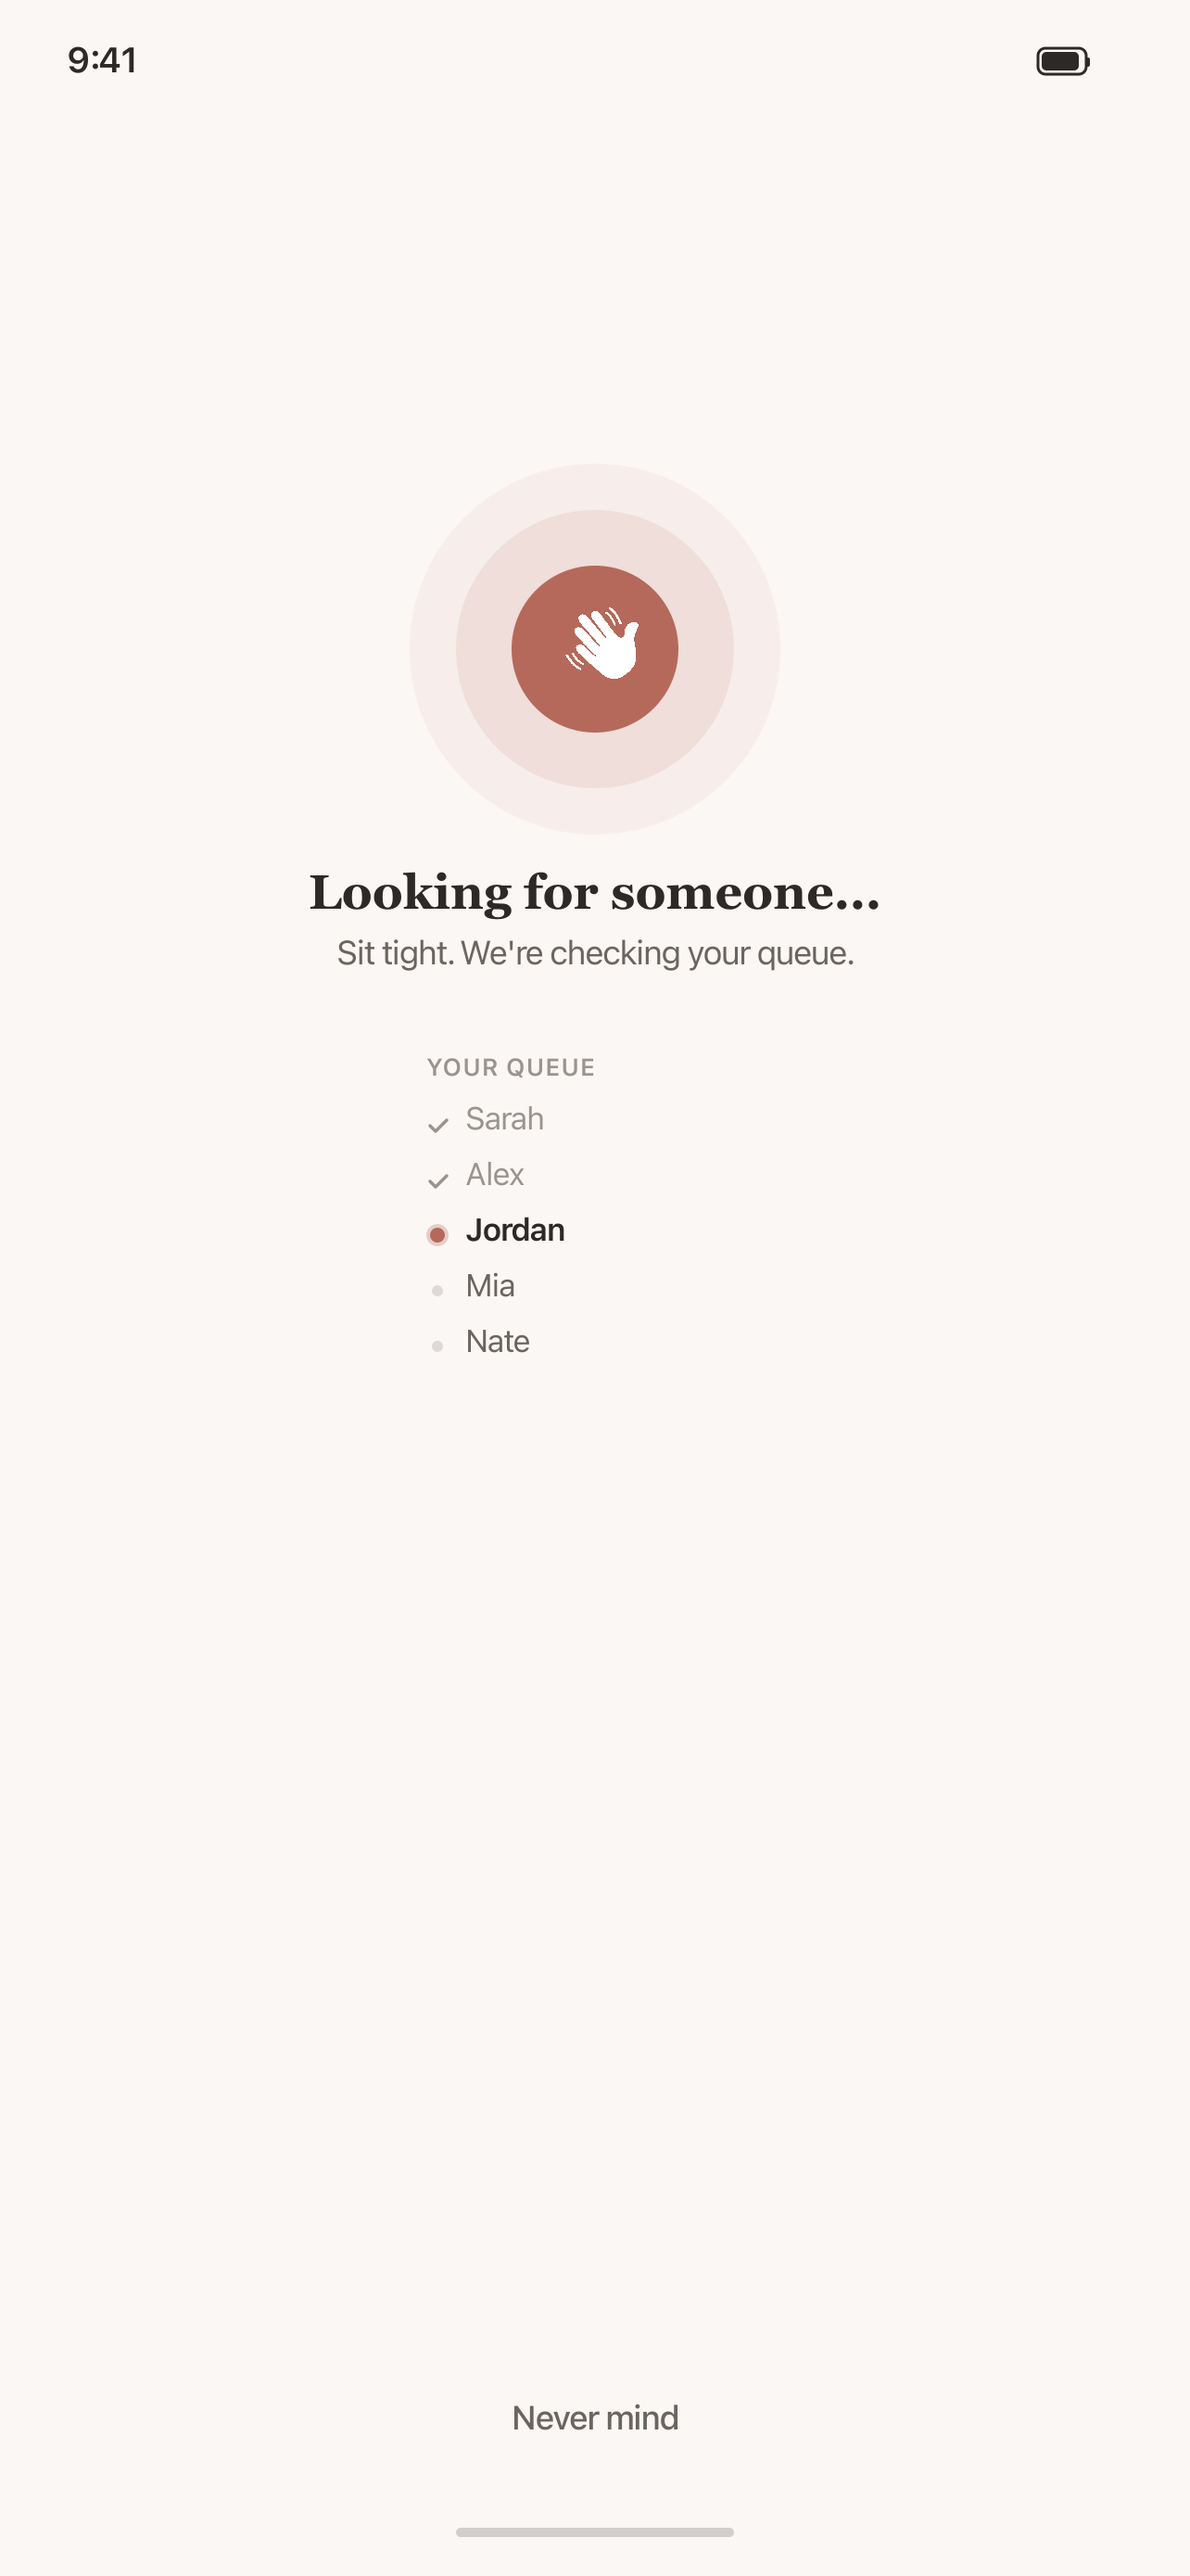
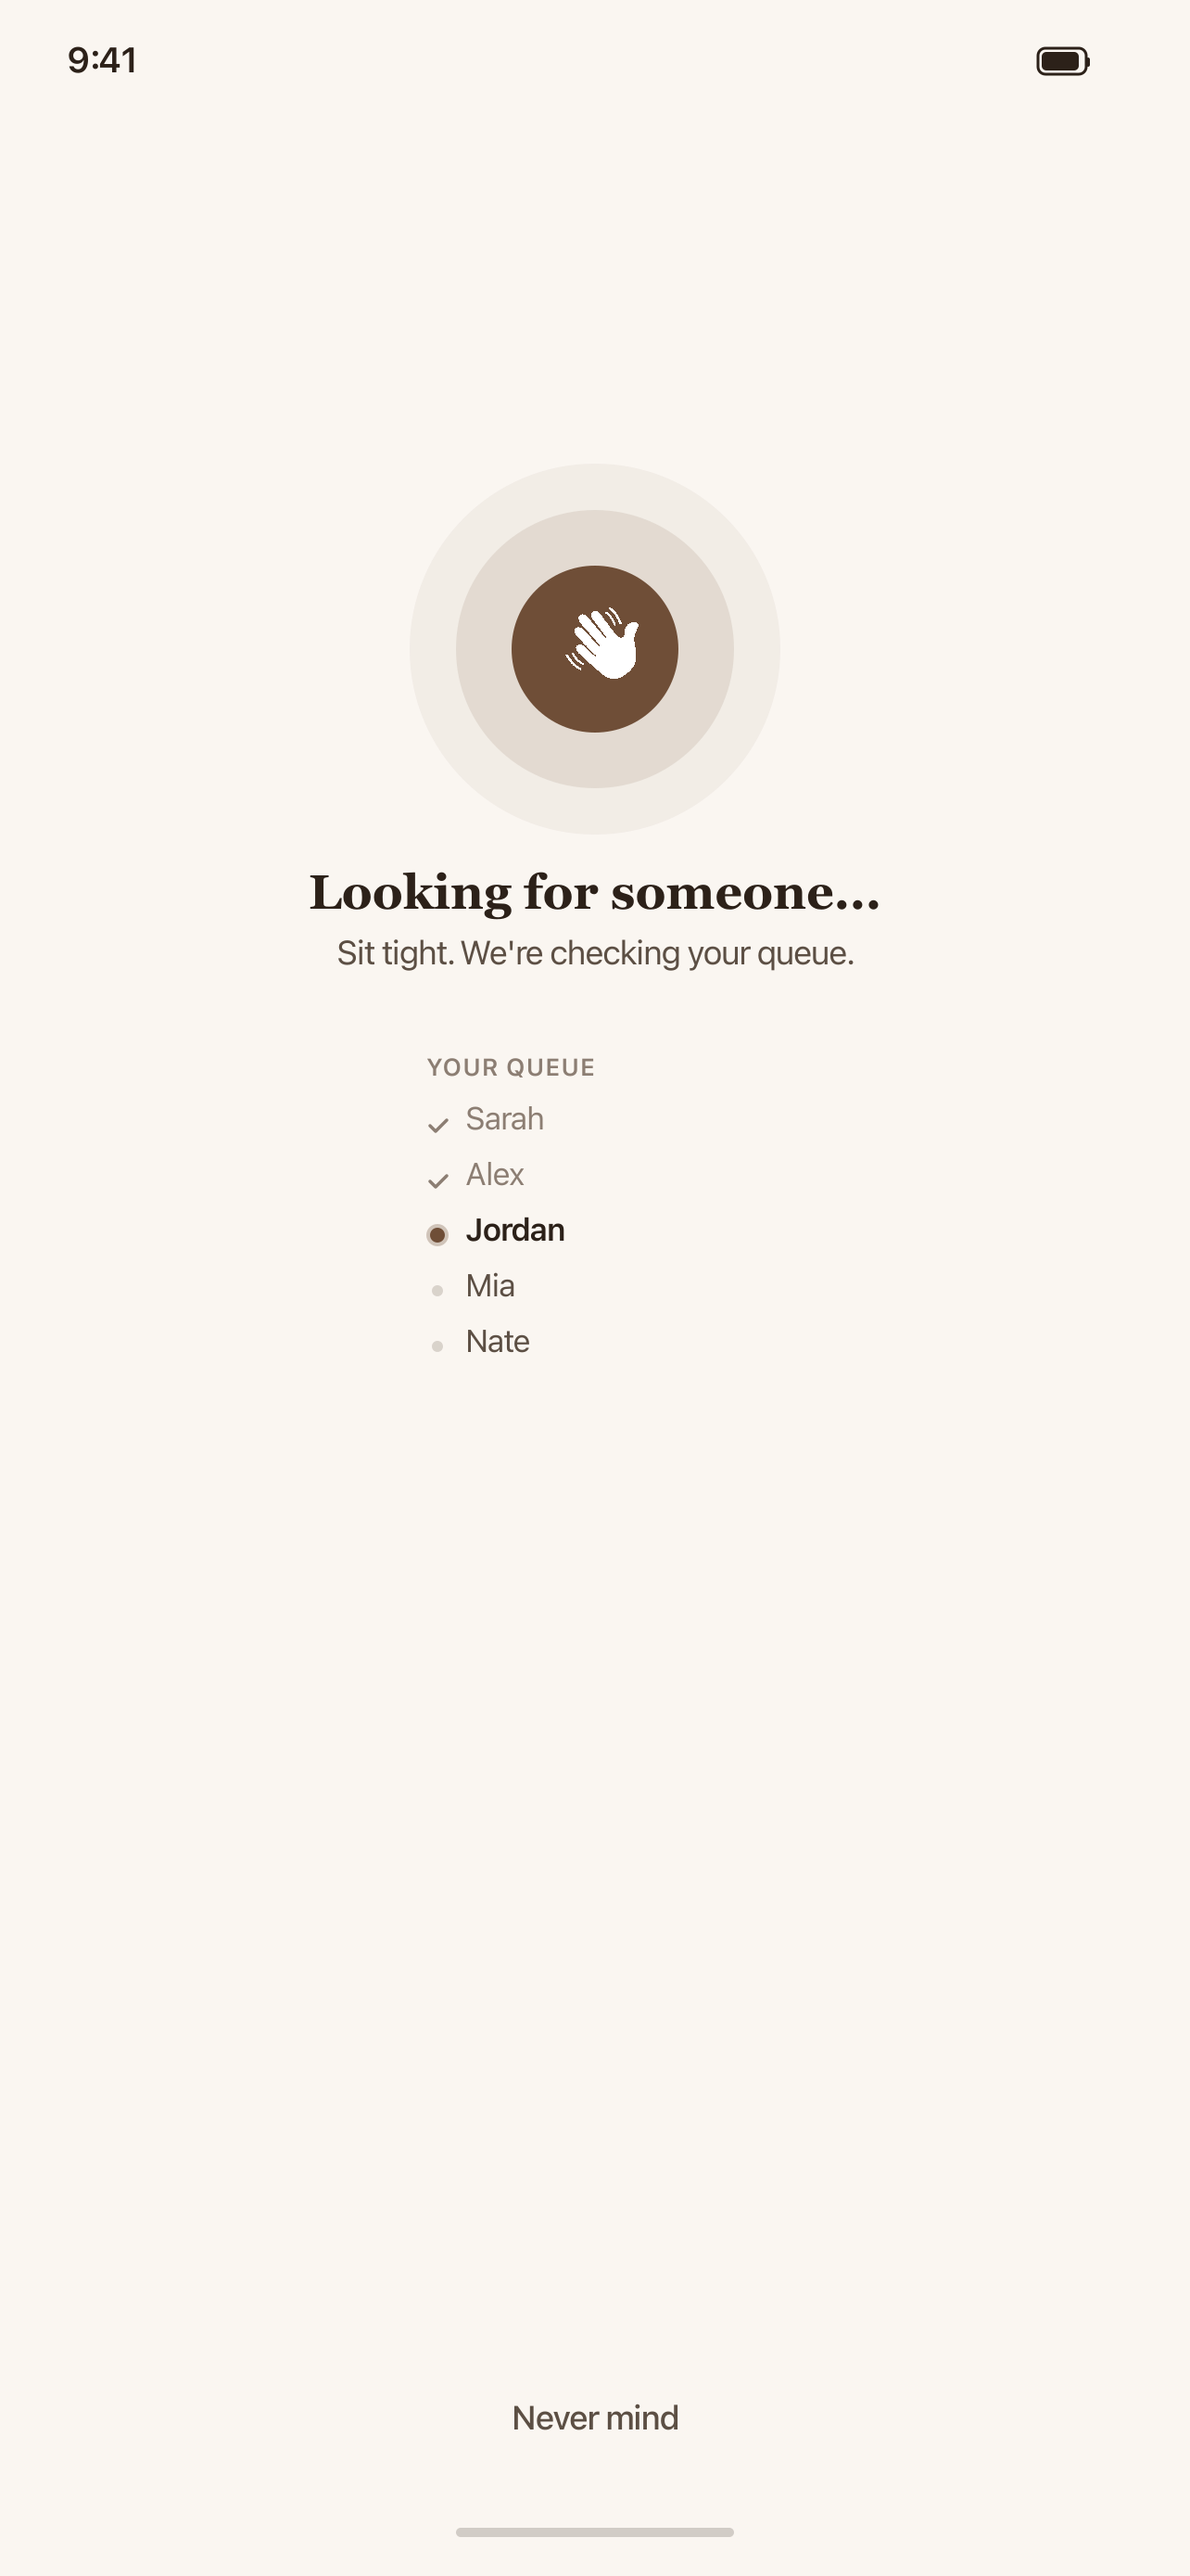
Switch color scheme from burnt terracotta to coffee palette
Primary shifts from #B5695A (terracotta) to #6F4E37 (coffee brown),
with espresso/latte dark/light variants. Background, text, and border
tones adjusted to match. SVG mockups and screenshots re-rendered.

Changed region(s): [[0.4361, 0.2167, 0.5919, 0.3096], [0.405, 0.4953, 0.4361, 0.5263], [0.405, 0.4334, 0.4361, 0.4644]]

diff --git a/WeShouldCatchUp/Utilities/Constants.swift b/WeShouldCatchUp/Utilities/Constants.swift
@@ -20,28 +20,28 @@ enum Constants {
 
     // MARK: - Design
     enum Colors {
-        // Muted terracotta accent — primary brand color
-        static let primary = Color(hex: 0xB5695A)             // muted terracotta
-        static let primaryDark = Color(hex: 0x96524A)         // darker muted
-        static let primaryLight = Color(hex: 0xF0DDD7)        // --color-terracotta-light
+        // Coffee accent — primary brand color
+        static let primary = Color(hex: 0x6F4E37)             // coffee brown
+        static let primaryDark = Color(hex: 0x553A28)         // espresso
+        static let primaryLight = Color(hex: 0xE8D5C4)        // latte
 
         // Backgrounds
-        static let background = Color(hex: 0xFBF7F4)          // --color-cream
-        static let backgroundDark = Color(hex: 0xF5EDE8)      // --color-cream-dark
-        static let cardBackground = Color.white                // --color-card
+        static let background = Color(hex: 0xFAF6F1)          // cream
+        static let backgroundDark = Color(hex: 0xF0E8DF)      // oat milk
+        static let cardBackground = Color.white                // card
 
         // Text
-        static let textPrimary = Color(hex: 0x2D2926)         // --color-warm-charcoal
-        static let textSecondary = Color(hex: 0x6B6560)       // --color-warm-muted
-        static let textTertiary = Color(hex: 0x9A9490)        // --color-warm-light
+        static let textPrimary = Color(hex: 0x2C2119)         // dark roast
+        static let textSecondary = Color(hex: 0x5C4F44)       // medium roast
+        static let textTertiary = Color(hex: 0x8C7E73)        // light roast
 
         // Borders
-        static let border = Color(hex: 0xE8E0DA)              // --color-border
+        static let border = Color(hex: 0xDDD3C8)              // border
 
         // Utility
-        static let destructive = Color(hex: 0xFB2C36)         // --color-red-500
+        static let destructive = Color(hex: 0xFB2C36)         // red
         static let success = Color(red: 0.30, green: 0.70, blue: 0.45)
-        static let callBackground = Color(hex: 0x2D2926)      // warm charcoal for call screen
+        static let callBackground = Color(hex: 0x2C2119)      // dark roast for call screen
     }
 
     enum Fonts {

diff --git a/README.md b/README.md
@@ -173,19 +173,19 @@ All endpoints except `/health` require a Firebase Auth token in the `Authorizati
 
 | Token | Hex | Usage |
 |-------|-----|-------|
-| `primary` | `#B5695A` | Muted terracotta — buttons, accents, brand color |
-| `primaryDark` | `#96524A` | Pressed/hover states |
-| `primaryLight` | `#F0DDD7` | Light terracotta tint (badges, highlights) |
-| `background` | `#FBF7F4` | Cream — main screen background |
-| `backgroundDark` | `#F5EDE8` | Slightly darker cream for depth |
+| `primary` | `#6F4E37` | Coffee brown — buttons, accents, brand color |
+| `primaryDark` | `#553A28` | Espresso — pressed/hover states |
+| `primaryLight` | `#E8D5C4` | Latte — badges, highlights |
+| `background` | `#FAF6F1` | Cream — main screen background |
+| `backgroundDark` | `#F0E8DF` | Oat milk — slightly darker cream for depth |
 | `cardBackground` | `#FFFFFF` | Cards, input fields |
-| `textPrimary` | `#2D2926` | Warm charcoal — headings, body text |
-| `textSecondary` | `#6B6560` | Muted — secondary labels, subtitles |
-| `textTertiary` | `#9A9490` | Warm light — placeholders, icons |
-| `border` | `#E8E0DA` | Input borders, dividers |
+| `textPrimary` | `#2C2119` | Dark roast — headings, body text |
+| `textSecondary` | `#5C4F44` | Medium roast — secondary labels, subtitles |
+| `textTertiary` | `#8C7E73` | Light roast — placeholders, icons |
+| `border` | `#DDD3C8` | Input borders, dividers |
 | `destructive` | `#FB2C36` | Errors, delete actions |
 | `success` | `rgb(77,179,115)` | Success states |
-| `callBackground` | `#2D2926` | Dark background for voice call screen |
+| `callBackground` | `#2C2119` | Dark roast — voice call screen |
 
 ### Typography
 
